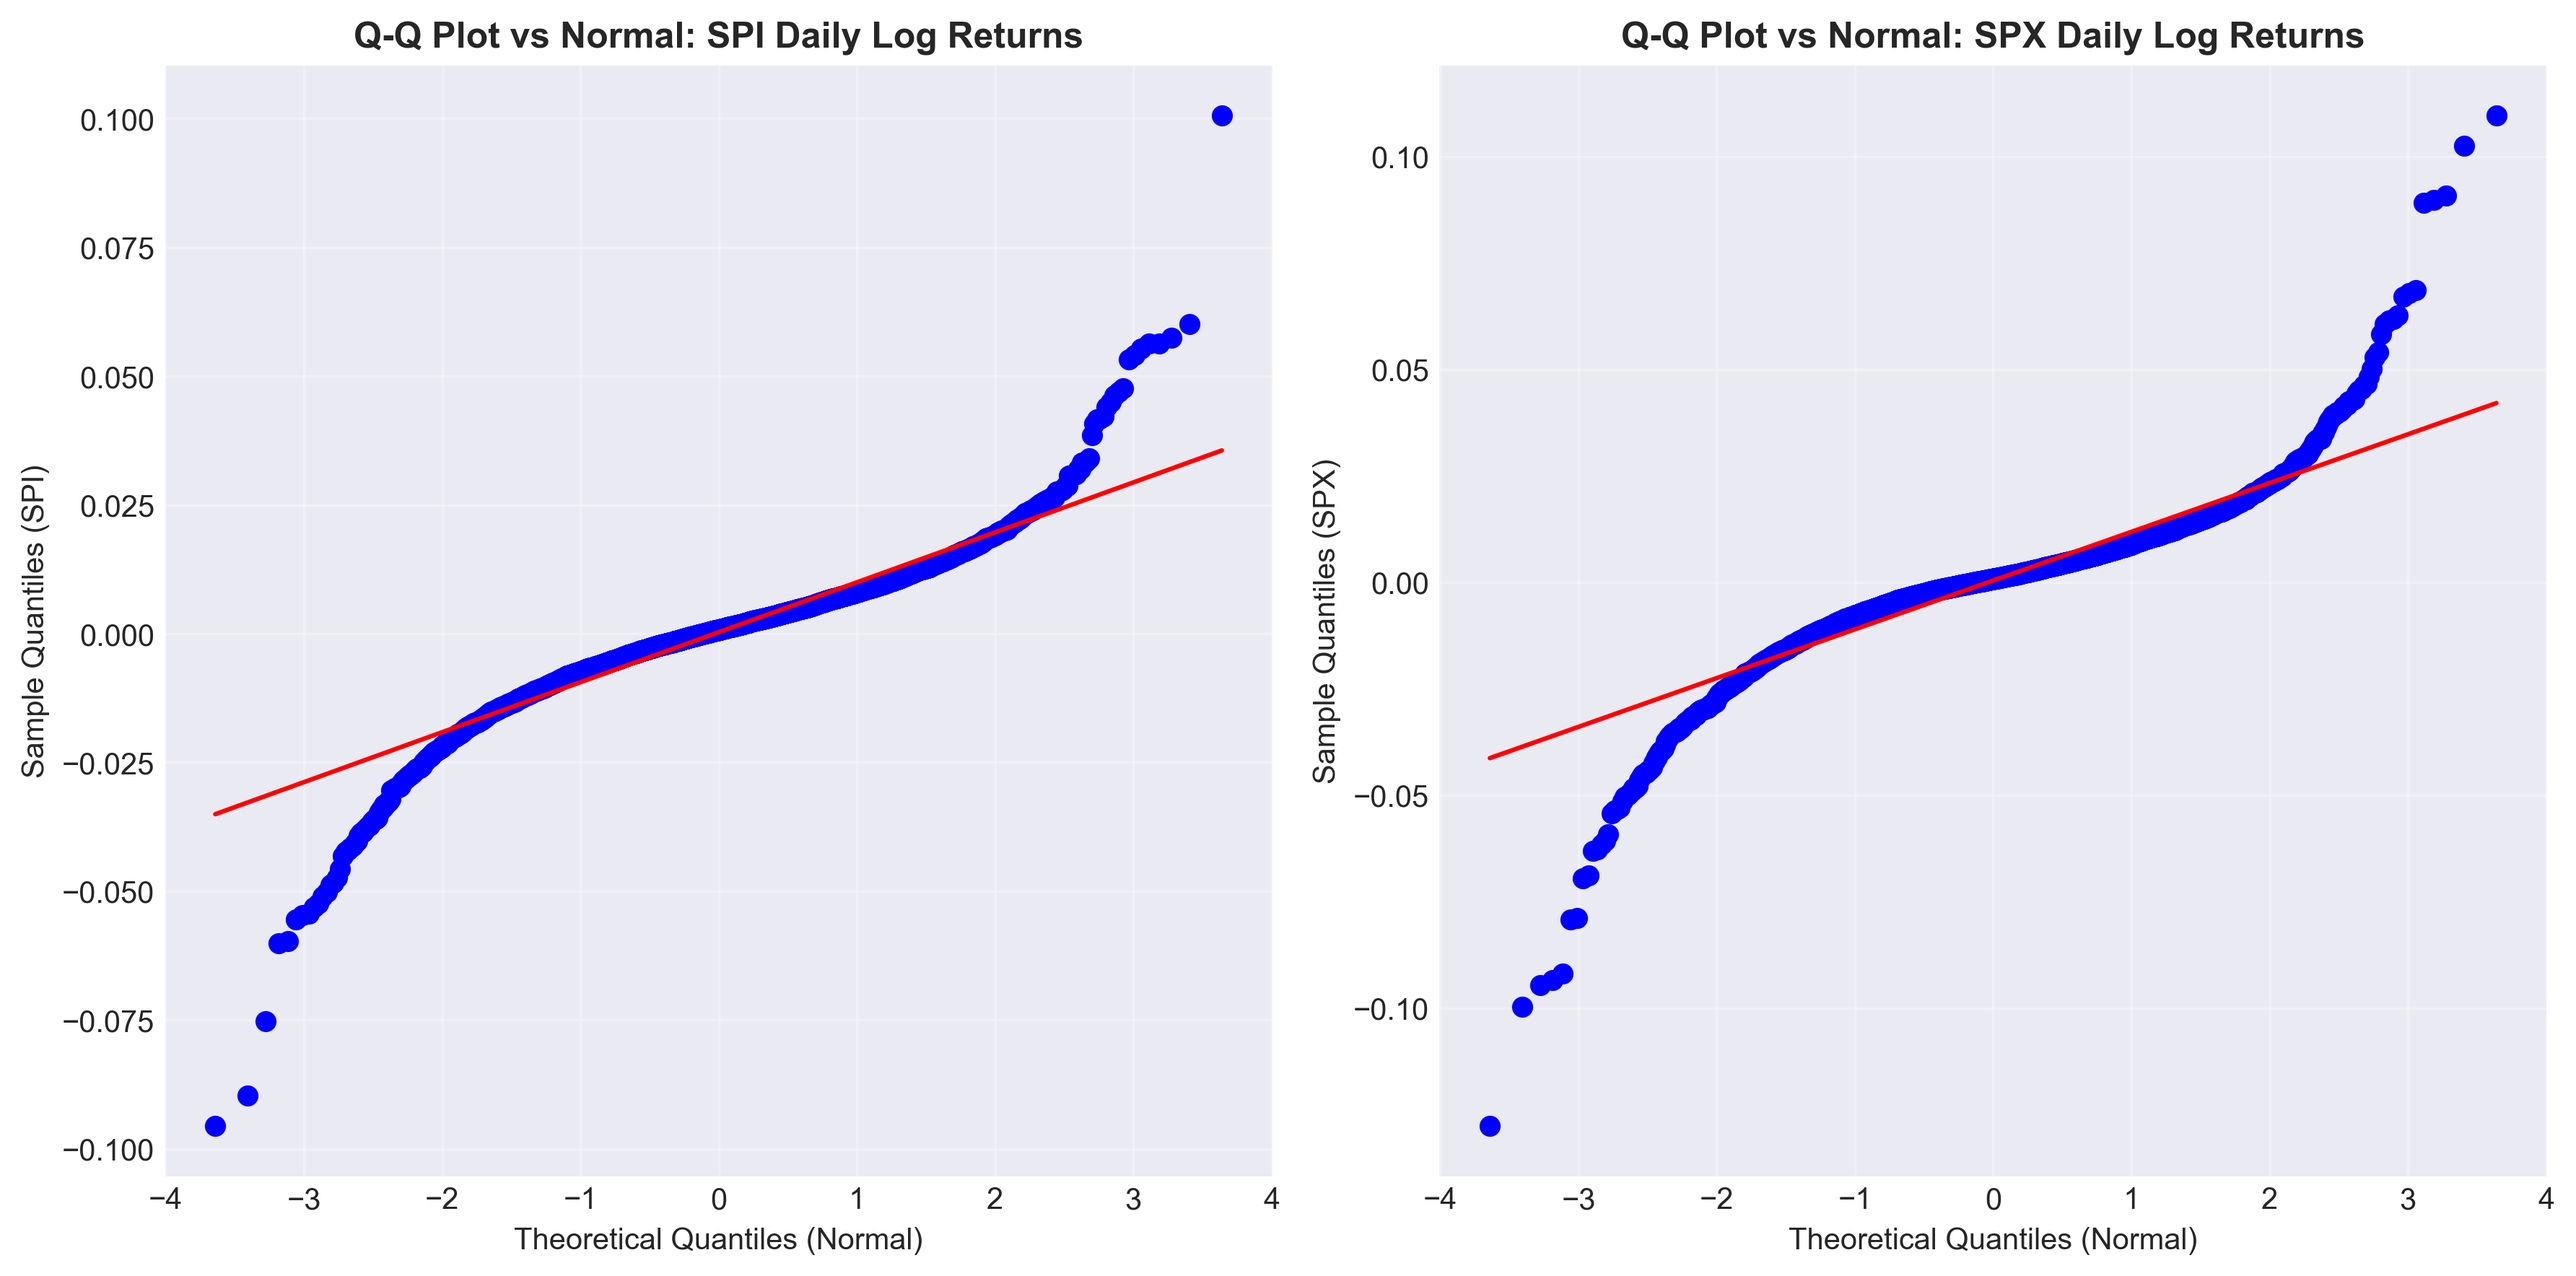
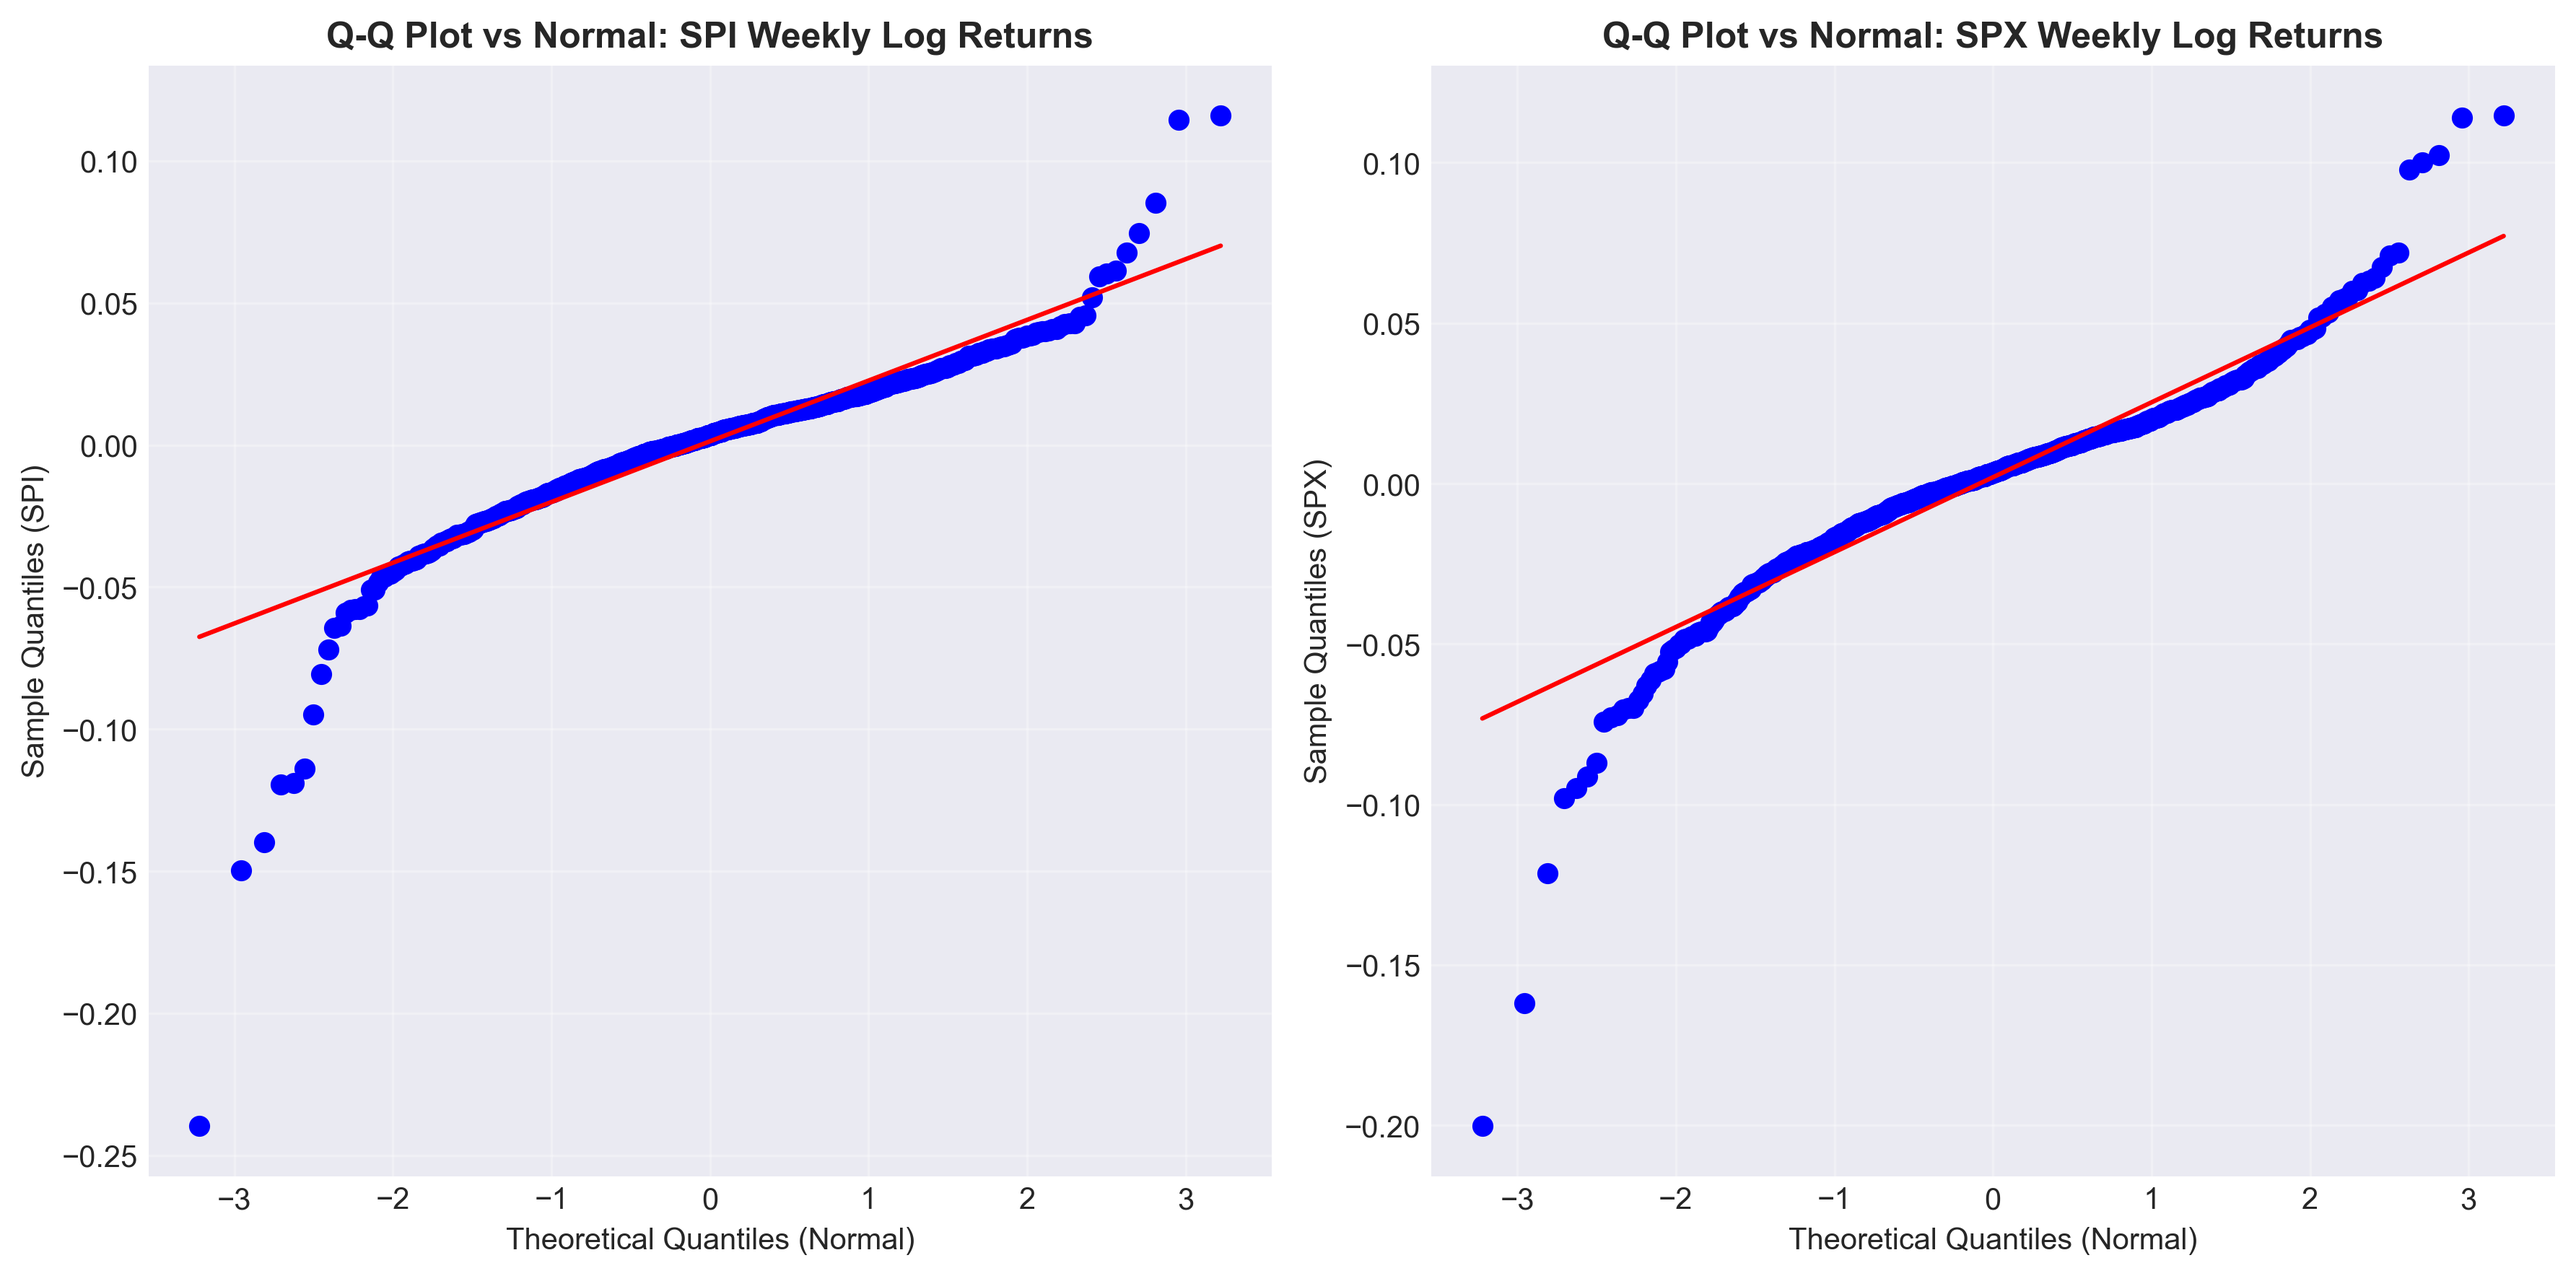
weekly MA and rolling corr graph

diff --git a/main.py b/main.py
@@ -57,22 +57,22 @@ print("\n" + "="*60)
 print("Analyzing Index Returns")
 print("="*60)
 
-# 1a.1 Q-Q Plot: Daily Log Returns (SPI vs SPX)
+# 1a.1 Q-Q Plot: Weekly Log Returns (SPI vs SPX)
 
 plt.figure(figsize=(12, 6))
 
 # --- SPI QQ plot vs Normal ---
 ax1 = plt.subplot(1, 2, 1)
-stats.probplot(Theta1_d, dist="norm", plot=ax1)
-ax1.set_title("Q-Q Plot vs Normal: SPI Daily Log Returns", fontsize=12, fontweight='bold')
+stats.probplot(Theta1_w, dist="norm", plot=ax1)
+ax1.set_title("Q-Q Plot vs Normal: SPI Weekly Log Returns", fontsize=12, fontweight='bold')
 ax1.set_xlabel("Theoretical Quantiles (Normal)")
 ax1.set_ylabel("Sample Quantiles (SPI)")
 ax1.grid(alpha=0.3)
 
 # --- SPX QQ plot vs Normal ---
 ax2 = plt.subplot(1, 2, 2)
-stats.probplot(Theta2_d, dist="norm", plot=ax2)
-ax2.set_title("Q-Q Plot vs Normal: SPX Daily Log Returns", fontsize=12, fontweight='bold')
+stats.probplot(Theta2_w, dist="norm", plot=ax2)
+ax2.set_title("Q-Q Plot vs Normal: SPX Weekly Log Returns", fontsize=12, fontweight='bold')
 ax2.set_xlabel("Theoretical Quantiles (Normal)")
 ax2.set_ylabel("Sample Quantiles (SPX)")
 ax2.grid(alpha=0.3)
